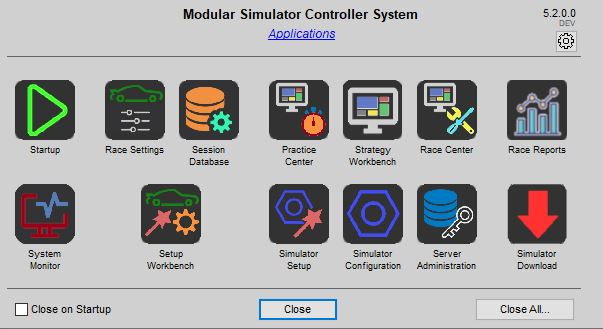
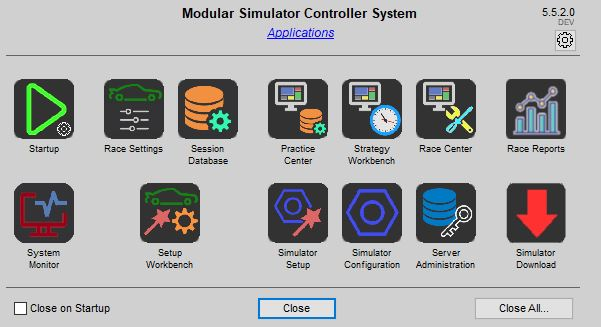
Interview-based Startup Part 7

diff --git a/Docs/Using Simulator Controller.md b/Docs/Using Simulator Controller.md
@@ -66,6 +66,26 @@ Here is an overview for the all settings and configuration options for the vario
   
      Maintained by the "Race Settings" and "Session Database" applications and stored in the *Race.settings* file in the *Simulator Controller\Config* folder in your user *Documents* folder. Whenever you start a race (or even a training session), the Virtual Race Assistants will use these settings to control various functionality, for example, how to react to damages, when to change tyres after a severe weather change, and so on. You can edit these settings with the "Race Settings" application just before each session, or you can manage a lot of the setting values by using the "Session Database" application and store default values depending on a given car / track / weather combination. See the [corresponding documentation](https://github.com/SeriousOldMan/Simulator-Controller/wiki/Virtual-Race-Engineer#race-settings) for more information.
 
+### Startup Profiles
+
+As you have seen, managing the different settings can be quite time-consuming, when you participate in very different kind of sessions. The setup for a team race using the [Team Server](https://github.com/SeriousOldMan/Simulator-Controller/wiki/Team-Server) is very different from running a local practice session or a race against the AI of a given simulator. Therefore, Simulator Controller provides the possibility to manage the most common settings as a profile and you can choose and activate a given profile while starting Simulator Controller by clicking on the green triangle. You can open the startup profiles editor by either exactly hitting the small cog wheel icon in the "Startup" button or by holding down the Control key while clicking on the "Startup" button. The following window appears:
+
+![](https://github.com/SeriousOldMan/Simulator-Controller/blob/main/Docs/Images/Startup%20Profiles%201.JPG)
+
+In this editor you create as many different startup profiles as you want. Only one of them will be active as indicated by the checkmark in the list and will be used during the startup process. The profile named "Standard" is special, as it indicates **no** startup profile (all settings will be loaded *normally* from the sources described above).
+
+If you want to create a startup profile, click on the button with the small "+" and give this profile a unique name. You can choose whether this profile will start a solo or a team session. You can furthermore specifiy, which Assistants will be available and whether they will talk and listen to you. And you can activate the ["Autonomous Mode" for strategy handling](https://github.com/SeriousOldMan/Simulator-Controller/wiki/Virtual-Race-Strategist#tab-strategy) by the Assistants, if required.
+
+If you want to start the "Practice Center" or the "Race Center" automatically you can choose that as well. Please note, that running the "Race Center" is only useful in a team session.
+
+If you have chosen "Team" as the *Mode* of the startup profile, you can configure all [team session](https://github.com/SeriousOldMan/Simulator-Controller/wiki/Team-Server) related stuff on the second tab.
+
+![](https://github.com/SeriousOldMan/Simulator-Controller/blob/main/Docs/Images/Startup%20Profiles%201.JPG)
+
+If you are the team manager, you can open up the [team configuration editor](https://github.com/SeriousOldMan/Simulator-Controller/wiki/Installation-&-Configuration#tab-team-server) in "Simulator Configuration" by clicking on the "Manage..." button. When you have created and saved a new team session there it will be loaded into the startup profile automatically. Otherwise, if you participate as a driver in a team session, you can either use the application "Race Settings" to manage your driver credentials, or you can enter them directly into the startup profile by chosing "Save with Profile" in the *Credential* drop down. The input fields below have the same meaning and behaviour as those in the ["Race Settings"](https://github.com/SeriousOldMan/Simulator-Controller/wiki/Team-Server#preparing-a-team-session) application.
+
+If you are ready to start, you can close the startup profiles editor and click then again on the green triangle to start Simulator Controller. As a shortcut, you can hold down the Control key while saving and closing the startup profiles editor, which will trigger the startup process automatically.
+
 ## Using Simulator Controller
 
 After closing the configuration dialog, the actual startup process begins. Normally, you will be greeted by a splash screen and will see a pogress bar which informs you about what the system is currently doing. If you decide to stop the startup process, you can do this by pressing Escape anytime. If you decide that you want to start your favorite simulation (the first one in the Simulators list (see the [General tab](https://github.com/SeriousOldMan/Simulator-Controller/wiki/Installation-&-Configuration#tab-general) in the configuration tool) after the startup process has finished, you can do this by holding down the Control key during the startup process, even if you haven't checked the startup option in the configuration dialog above.

diff --git a/Docs/Keyboard Modifiers.md b/Docs/Keyboard Modifiers.md
@@ -32,9 +32,10 @@ Many applications of Simulator Controller provide a couple of modifier keys for 
 | | Sound volume fading | Control | When leaving the first page of "Simulator Setup", which shows the splash video, you can hold down the control key to supress the fading of the sound volume and speed up things a little bit. |
 | Simulator Startup | Automatic simulator startup | Middle Mouse Button | When starting "Simulator Startup" with the Middle Mouse Button pressed, the first simulator from the list of configured simulators will be started automatically. |
 | | Unblocking executables | Control + Shift | If you hold down Control together with the Shift key while starting "Simulator Startup", the application will try to acquire Admin priviliges and will unblock all executables. |
-| | Simulator startup | Shift | When pressing *Startup* (green triangle) in "Simulator Startup" while holding the Shift key, the choice of "Close on startup" will be temporarily toggled for this one startup. |
-| | Exiting "Simulator Startup" | Control | When closing "Simulator Startup" and the Control key is pressed, you will be asked, whether you want to exit all other applications of "Simulator Controller" as well. |
+| | Simulator startup | Shift | When clicking *Startup* (green triangle) in "Simulator Startup" while holding the Shift key, the choice of "Close on startup" will be temporarily toggled for this one startup. |
+| | Simulator startup | Control | When clicking *Startup* (green triangle) in "Simulator Startup" while holding the Control key, the editor for the startup profiles will open up, even when the small cog wheel icon was not hit. |
 | | Editing startup profiles | Control | Holding down the control key when clicking the "Save" button in the startup profiles editor will save the profiles and start Simulator Controller in one step. |
+| | Exiting "Simulator Startup" | Control | When closing "Simulator Startup" and the Control key is pressed, you will be asked, whether you want to exit all other applications of "Simulator Controller" as well. |
 | Simulator Tools | Running system build | Control | Only relevant for developers. If you hold down the Control key when starting "Simulator Tools", a window will pop up, where you can enable or disable individual build rules. |
 | Strategy Workbench | Simulate    | Control  | If you hold down the Control key while starting a strategy simulation, the result will automatically selected as the current strategy, if the simulation was successful. |
 | | Load Settings    | Control  | If you hold down the Control key while choosing the menu command "Load from Settings..." from the "Settings" menu, you can locate a settings file on your hard drives rather than loading the standard "Race.settings" file from "Config" folder. |

diff --git a/Docs/Releases.md b/Docs/Releases.md
@@ -1,3 +1,12 @@
+## 5.5.2.0-release 01/05/24 (planned)
+  1. Minor bugfixes, as always
+  2. Documentation updates here and there, as always
+  3. "Simulator Startup" now supports the so-called startup profiles, which let you manage and activate the most important configuration settings for solo and team races in a matter of seconds. See the all new [documentation](https://github.com/SeriousOldMan/Simulator-Controller/wiki/Using-Simulator-Controller#startup-profiles) for more information.
+  4. New [control key modifiers](https://github.com/SeriousOldMan/Simulator-Controller/wiki/Keyboard-Modifiers) for "Simulator Startup" allow you to quickly open the startup profiles editor and run the startup process automatically when closing the editor.
+  5. A couple of presets, that were used to disable voice handling completely or to start the Assistants muted, has been deprecated in "Simulator Setup". The functionality is now available in the [startup profiles](https://github.com/SeriousOldMan/Simulator-Controller/wiki/Using-Simulator-Controller#startup-profiles).
+
+Please also take a look at the [Update Notes](https://github.com/SeriousOldMan/Simulator-Controller/wiki/Update-Notes#release-552), since a couple of presets were deprecated.
+
 ## 5.5.1.0-release 12/15/23
   1. Minor bugfixes, as always
   2. Documentation updates here and there, as always

diff --git a/Docs/Updates.md b/Docs/Updates.md
@@ -35,6 +35,12 @@ Although the code, that handles all the update tasks, is integrated into *Simula
 
 Note: Some of you might want to have more control. No problem. All the files in the *Simulator Controller\Config*, *Simulator Controller\Translations*, *Simulator Controller\Grammars* and *Simulator Controller\Rules* folders are human readable and using a text editor and some *Diff* tool, you can do everything the automated procedure does on your own. But be sure to make a backup copy of all the files, just for peace of mind. Attention: These files use a two-byte character set, so be sure to use an editor that can handle this.
 
+## Release 5.5.2
+
+Updates are handled automatically, but a couple of presets has been deprecated in "Simulator Setup". The functionality to disable voice handling completely or to start the Assistants muted is now available in the [startup profiles](https://github.com/SeriousOldMan/Simulator-Controller/wiki/Using-Simulator-Controller#startup-profiles). You may want to create a couple of profiles for this purpose, if you have used the mentioned presets in the past, and you want to remove the presets from your list of active presets, to keep things clean and tidy.
+
+***
+
 ## Release 5.5.1
 
 Nothing to do.
